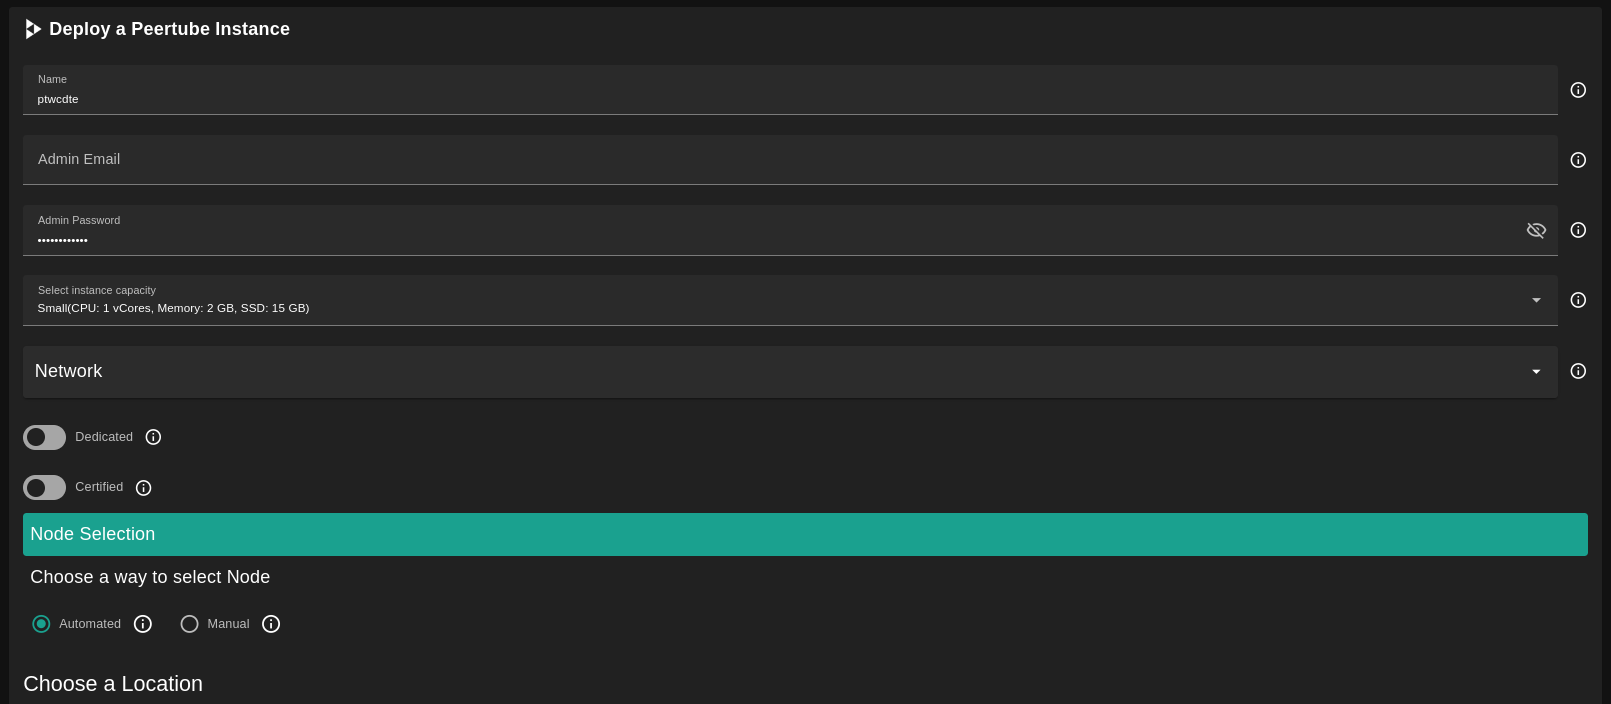
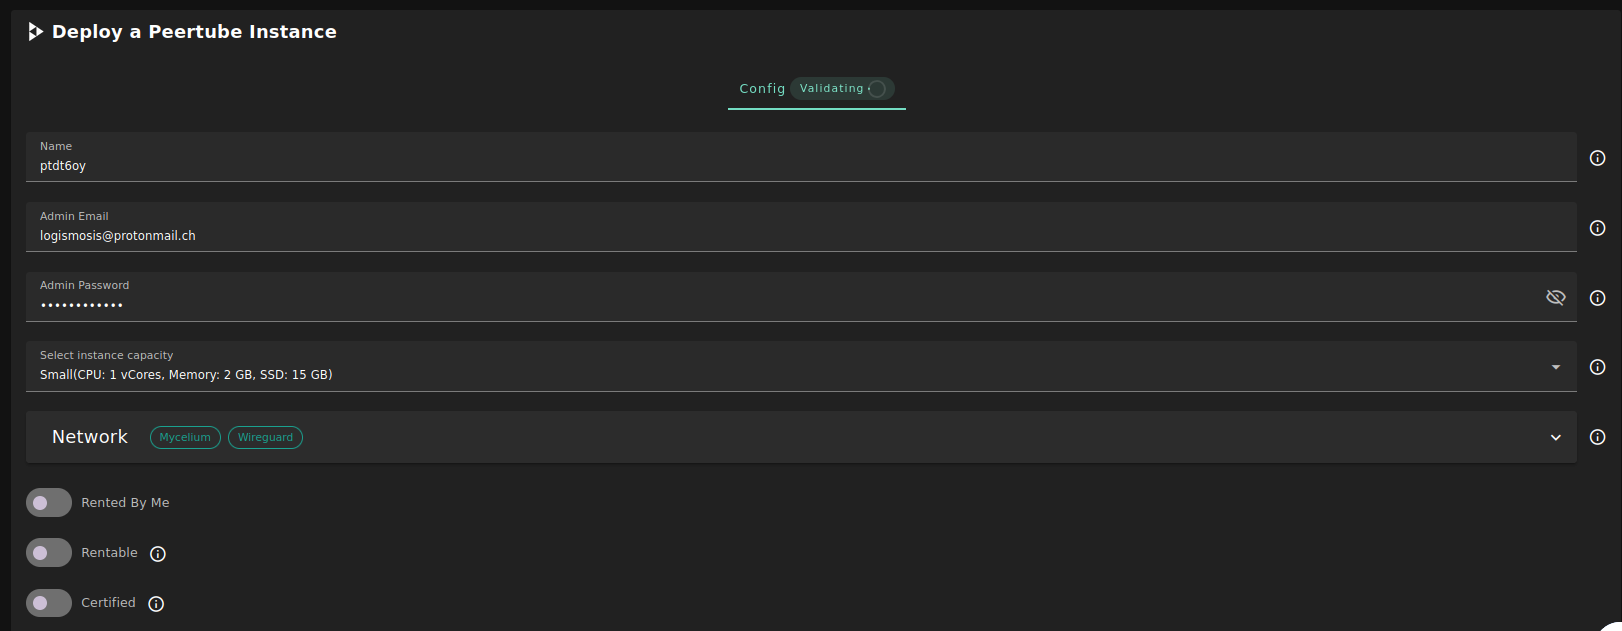
update filters and labs org

diff --git a/src/SUMMARY.md b/src/SUMMARY.md
@@ -17,20 +17,18 @@
         - [Nixos Micro VM](documentation/dashboard/solutions/nixos_micro.md)
         - [Micro and Full VM Differences ](documentation/dashboard/solutions/vm_differences.md)
         - [Add a Domain to a VM](documentation/dashboard/solutions/add_domain.md)
-      - [Orchestrators](documentation/dashboard/deploy/orchestrators.md)
-        - [Kubernetes](documentation/dashboard/solutions/k8s.md)
+      - [Labs](documentation/dashboard/deploy/applications.md)
+        - [Algorand](documentation/dashboard/solutions/algorand.md)
         - [CapRover](documentation/dashboard/solutions/caprover.md)
           - [CapRover Admin](documentation/dashboard/solutions/caprover_admin.md)
           - [CapRover Worker](documentation/dashboard/solutions/caprover_worker.md)
-      - [Applications](documentation/dashboard/deploy/applications.md)
-        - [Algorand](documentation/dashboard/solutions/algorand.md)
         - [CasperLabs](documentation/dashboard/solutions/casper.md)
         - [Discourse](documentation/dashboard/solutions/discourse.md)
-        - [Domains](documentation/dashboard/solutions/domains.md)
         - [Funkwhale](documentation/dashboard/solutions/funkwhale.md)
         - [Gitea](documentation/dashboard/solutions/gitea.md)
         - [Jenkins](documentation/dashboard/solutions/jenkins.md)
         - [Jitsi](documentation/dashboard/solutions/jitsi.md)
+        - [Kubernetes](documentation/dashboard/solutions/k8s.md)
         - [Mattermost](documentation/dashboard/solutions/mattermost.md)
         - [Nextcloud](documentation/dashboard/solutions/nextcloud.md)
         - [Node Pilot](documentation/dashboard/solutions/nodepilot.md)
@@ -44,6 +42,7 @@
         - [TFRobot](documentation/dashboard/solutions/tfrobot.md)
         - [Umbrel](documentation/dashboard/solutions/umbrel.md)
         - [WordPress](documentation/dashboard/solutions/wordpress.md)
+      - [Domains](documentation/dashboard/solutions/domains.md)
       - [Your Contracts](documentation/dashboard/deploy/your_contracts.md)
       - [Images](documentation/dashboard/deploy/images.md)
       - [SSH Keys](documentation/dashboard/deploy/ssh_keys.md)

diff --git a/src/documentation/dashboard/deploy/deploy.md b/src/documentation/dashboard/deploy/deploy.md
@@ -4,7 +4,7 @@ Here you will find everything related to deployments on the ThreeFold grid. This
 
 - Checking the cost of a deployment using [Pricing Calculator](./pricing_calculator.md)
 - Finding a node to deploy on using the [Node Finder](./node_finder.md)
-- Deploying a workload: [Virtual Machines](../solutions/vm_intro.md), [Orchestrators](./orchestrators.md), or [Applications](./applications.md)
+- Deploying a workload: [Virtual Machines](../solutions/vm_intro.md), [Labs Applications](./applications.md) or [Domains](../solutions/domains.md)
 - Consulting [Your Contracts](./your_contracts.md) on the TFGrid
 - Finding or publishing Flists from [Images](./images.md)
 - Updating or generating your SSH key from [SSH Keys](./ssh_keys.md)
@@ -18,8 +18,8 @@ Here you will find everything related to deployments on the ThreeFold grid. This
 - [Pricing Calculator](./pricing_calculator.md)
 - [Node Finder](./node_finder.md)
 - [Virtual Machines](../solutions/vm_intro.md)
-- [Orchestrators](./orchestrators.md)
-- [Applications](./applications.md)
+- [Labs](./applications.md)
+- [Domains](../solutions/domains.md)
 - [Your Contracts](./your_contracts.md)
 - [Images](./images.md)
 - [SSH Keys](./ssh_keys.md)

diff --git a/src/documentation/dashboard/solutions/jenkins.md b/src/documentation/dashboard/solutions/jenkins.md
@@ -14,7 +14,7 @@
 
 __Process__ :
 
-![ ](./img/solutions_jenkins1.png)
+![ ](./img/solutions_jenkins.png)
 
 - Enter an Application Name. It's used in generating a unique subdomain on one of the gateways on the network alongside your twin ID. Ex. ***fw100myfunk*.gent02.dev.grid.tf**
 
@@ -30,7 +30,8 @@ __Process__ :
    - `Public IPv6` flag gives the virtual machine a Public IPv6
    - `Planetary Network` flag gives the virtual machine an Yggdrasil address
    - `Mycelium` flag gives the virtual machine a Mycelium address
-- `Dedicated` flag to retrieve only [dedicated nodes](../deploy/node_finder.md#dedicated-nodes) (rentable or rented by you)
+- `Rented By Me` flag to retrieve nodes currently reserved by you
+- `Rentable` flag to retrieve nodes that can be reserved as [dedicated nodes](../deploy/node_finder.md#dedicated-nodes)
 - `Certified` flag to retrieve only certified nodes 
 - Choose the location of the node
    - `Region`

diff --git a/src/documentation/dashboard/solutions/nostr.md b/src/documentation/dashboard/solutions/nostr.md
@@ -12,7 +12,7 @@
 
 ## Deployment
 
-![](./img/nostr_config.png)
+![](./img/solutions_nostr.png)
 
 - Enter a name for your deployment or keep the default name
 - Select a capacity package:
@@ -26,7 +26,8 @@
    - `Planetary Network` flag gives the virtual machine an Yggdrasil address
    - `Mycelium` flag gives the virtual machine a Mycelium address
 
-- `Dedicated` flag to retrieve only [dedicated nodes](../deploy/node_finder.md#dedicated-nodes) (rentable or rented by you)
+- `Rented By Me` flag to retrieve nodes currently reserved by you
+- `Rentable` flag to retrieve nodes that can be reserved as [dedicated nodes](../deploy/node_finder.md#dedicated-nodes)
 - `Certified` flag to retrieve only certified nodes 
 - Choose the node 
   - Automated

diff --git a/src/documentation/dashboard/solutions/fullVm.md b/src/documentation/dashboard/solutions/fullVm.md
@@ -31,7 +31,8 @@ Deploy a new full virtual machine on the Threefold Grid
   - `Wireguard Access` to add a wireguard access to the Virtual Machine
 - `GPU` flag to add GPU to the Virtual machine
   - To deploy a Full VM with GPU, you first need to [rent a dedicated node](../deploy/node_finder.md#dedicated-nodes)
-- `Dedicated` flag to retrieve only [dedicated nodes](../deploy/node_finder.md#dedicated-nodes) (rentable or rented by you)
+- `Rented By Me` flag to retrieve nodes currently reserved by you
+- `Rentable` flag to retrieve nodes that can be reserved as [dedicated nodes](../deploy/node_finder.md#dedicated-nodes)
 - `Certified` flag to retrieve only certified nodes 
 - Choose the location of the node
   - `Country`

diff --git a/src/documentation/dashboard/solutions/jitsi.md b/src/documentation/dashboard/solutions/jitsi.md
@@ -28,7 +28,8 @@ Jitsi Meet is a set of Open Source projects which empower users to use and deplo
   - `Public IPv6` flag gives the virtual machine a Public IPv6
   - `Planetary Network` flag gives the virtual machine an Yggdrasil address
   - `Mycelium` flag gives the virtual machine a Mycelium address
-- `Dedicated` flag to retrieve only [dedicated nodes](../deploy/node_finder.md#dedicated-nodes) (rentable or rented by you)
+- `Rented By Me` flag to retrieve nodes currently reserved by you
+- `Rentable` flag to retrieve nodes that can be reserved as [dedicated nodes](../deploy/node_finder.md#dedicated-nodes)
 - `Certified` flag to retrieve only certified nodes
 - Choose the location of the node
 

diff --git a/src/documentation/dashboard/solutions/gitea.md b/src/documentation/dashboard/solutions/gitea.md
@@ -12,7 +12,7 @@
 
 ## Deployment
 
-![](./img/gitea_config.png)
+![](./img/solutions_gitea.png)
 
 ![](./img/gitea_mail_server.png)
 
@@ -28,7 +28,8 @@
    - `Planetary Network` flag gives the virtual machine an Yggdrasil address
    - `Mycelium` flag gives the virtual machine a Mycelium address
 
-- `Dedicated` flag to retrieve only [dedicated nodes](../deploy/node_finder.md#dedicated-nodes) (rentable or rented by you)
+- `Rented By Me` flag to retrieve nodes currently reserved by you
+- `Rentable` flag to retrieve nodes that can be reserved as [dedicated nodes](../deploy/node_finder.md#dedicated-nodes)
 - `Certified` flag to retrieve only certified nodes 
 - Choose the node 
   - Automated

diff --git a/src/documentation/dashboard/solutions/openwebui.md b/src/documentation/dashboard/solutions/openwebui.md
@@ -25,7 +25,8 @@ Open WebUI is an extensible, feature-rich, and user-friendly self-hosted AI plat
 - Choose the network
    - `Mycelium` flag gives the virtual machine a Mycelium address
    - `WireGuard` flag gives the virtual machine a Mycelium address
-- `Dedicated` flag to retrieve only [dedicated nodes](../deploy/node_finder.md#dedicated-nodes) (rentable or rented by you)
+- `Rented By Me` flag to retrieve nodes currently reserved by you
+- `Rentable` flag to retrieve nodes that can be reserved as [dedicated nodes](../deploy/node_finder.md#dedicated-nodes)
 - `Certified` flag to retrieve only certified nodes
 - Choose the location of the node
   - `Region`

diff --git a/src/documentation/dashboard/solutions/nextcloud.md b/src/documentation/dashboard/solutions/nextcloud.md
@@ -39,7 +39,8 @@ If you're not sure and just want the easiest, most affordable option, skip the p
 - Choose the network
    - `Public IPv4` flag gives the virtual machine a Public IPv4
    - `Mycelium` flag gives the virtual machine a Mycelium address
-- `Dedicated` flag to retrieve only [dedicated nodes](../deploy/node_finder.md#dedicated-nodes) (rentable or rented by you)
+- `Rented By Me` flag to retrieve nodes currently reserved by you
+- `Rentable` flag to retrieve nodes that can be reserved as [dedicated nodes](../deploy/node_finder.md#dedicated-nodes)
 - `Certified` flag to retrieve only certified nodes 
 - Choose the location of the node
    - `Region`

diff --git a/src/documentation/dashboard/solutions/static_website.md b/src/documentation/dashboard/solutions/static_website.md
@@ -31,7 +31,8 @@ Static Website is an application where a user provides a GitHub repository URL f
 - Choose the network
    - `Public IPv4` flag gives the virtual machine a Public IPv4
    - `Mycelium` flag gives the virtual machine a Mycelium address
-- `Dedicated` flag to retrieve only [dedicated nodes](../deploy/node_finder.md#dedicated-nodes) (rentable or rented by you)
+- `Rented By Me` flag to retrieve nodes currently reserved by you
+- `Rentable` flag to retrieve nodes that can be reserved as [dedicated nodes](../deploy/node_finder.md#dedicated-nodes)
 - `Certified` flag to retrieve only certified nodes
 - Choose the location of the node
   - `Region`

diff --git a/src/documentation/dashboard/solutions/wordpress.md b/src/documentation/dashboard/solutions/wordpress.md
@@ -71,7 +71,8 @@ In this section, we cover the steps to deploy a WordPress instance on the Playgr
 - Choose the network
   - `Public IPv4` flag gives the virtual machine a Public IPv4
   - `Mycelium` to enable Mycelium on the virtual machine
-- **Dedicated** flag to retrieve only [dedicated nodes](../deploy/node_finder.md#dedicated-nodes) (rentable or rented by you)
+- `Rented By Me` flag to retrieve nodes currently reserved by you
+- `Rentable` flag to retrieve nodes that can be reserved as [dedicated nodes](../deploy/node_finder.md#dedicated-nodes)
 - **Certified** flag to retrieve only certified nodes 
 - Choose the location of the node
    - **Country**

diff --git a/src/documentation/dashboard/solutions/tfrobot.md b/src/documentation/dashboard/solutions/tfrobot.md
@@ -34,7 +34,8 @@
   - `Planetary Network` to connect the Virtual Machine to Planetary network
   - `Mycelium` to enable Mycelium on the virtual machine
   - `Wireguard Access` to add a wireguard access to the Virtual Machine
-- `Dedicated` flag to retrieve only [dedicated nodes](../deploy/node_finder.md#dedicated-nodes) (rentable or rented by you)
+- `Rented By Me` flag to retrieve nodes currently reserved by you
+- `Rentable` flag to retrieve nodes that can be reserved as [dedicated nodes](../deploy/node_finder.md#dedicated-nodes)
 - `Certified` flag to retrieve only certified nodes 
 - Choose the location of the node
    - `Region`
